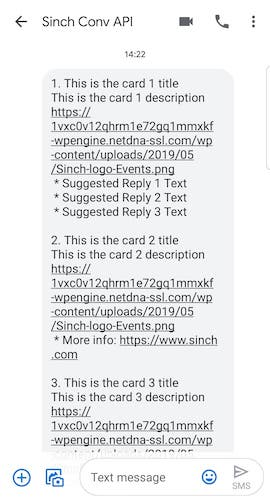
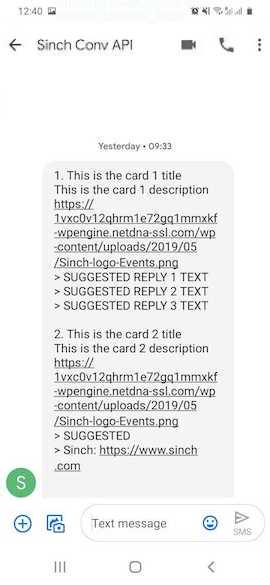
update screenshots and adjust examples

diff --git a/docs/conversation/conversation-channel-support/conversation-sms.md b/docs/conversation/conversation-channel-support/conversation-sms.md
@@ -149,29 +149,19 @@ Conversation API POST `messages:send`
       "choices": [
         {
           "text_message": {
-            "text": "Suggested Reply Text"
+            "text": "Text"
           }
         },
         {
           "url_message": {
-            "title": "More info",
+            "title": "Sinch",
             "url": "https://www.sinch.com"
           }
         },
         {
           "call_message": {
-            "title": "Call Choice Message",
-            "phone_number": "+46732000000"
-          }
-        },
-        {
-          "location_message": {
-            "title": "Location Choice Message",
-            "label": "Enriching Engagement",
-            "coordinates": {
-              "latitude": 55.610479,
-              "longitude": 13.002873
-            }
+            "title": "Someone",
+            "phone_number": "46732000000"
           }
         }
       ]
@@ -199,34 +189,24 @@ Conversation API POST `messages:send`
       "title": "This is the card title",
       "description": "This is the card description",
       "media_message": {
-        "url": "https://1vxc0v12qhrm1e72gq1mmxkf-wpengine.netdna-ssl.com/wp-content/uploads/2019/05/Sinch-logo-Events.png"
+        "url": "https://iconsplace.com/wp-content/uploads/_icons/ffa500/256/png/mms-icon-11-256.png"
       },
       "choices": [
         {
           "text_message": {
-            "text": "Suggested Reply Text"
-          }
-        },
-        {
-          "url_message": {
-            "title": "More info",
-            "url": "https://www.sinch.com"
+            "text": "Suggested Reply"
           }
         },
         {
           "call_message": {
-            "title": "Call Choice Message",
-            "phone_number": "+46732000000"
+            "title": "Someone",
+            "phone_number": "46732000000"
           }
         },
         {
-          "location_message": {
-            "title": "Location Choice Message",
-            "label": "Enriching Engagement",
-            "coordinates": {
-              "latitude": 55.610479,
-              "longitude": 13.002873
-            }
+          "url_message": {
+            "title": "Sinch",
+            "url": "https://www.sinch.com"
           }
         }
       ]
@@ -256,16 +236,20 @@ Conversation API POST `messages:send`
           "title": "This is the card 1 title",
           "description": "This is the card 1 description",
           "media_message": {
-            "url": "https://techcrunch.com/wp-content/uploads/2017/08/butterfly-bubble.jpg?w=1390&crop=1"
+            "url": "https://1vxc0v12qhrm1e72gq1mmxkf-wpengine.netdna-ssl.com/wp-content/uploads/2019/05/Sinch-logo-Events.png"
           },
           "choices": [
             {
               "text_message": {
                 "text": "Suggested Reply 1 Text"
-              },
+              }
+            },
+            {
               "text_message": {
                 "text": "Suggested Reply 2 Text"
-              },
+              }
+            },
+            {
               "text_message": {
                 "text": "Suggested Reply 3 Text"
               }
@@ -276,12 +260,17 @@ Conversation API POST `messages:send`
           "title": "This is the card 2 title",
           "description": "This is the card 2 description",
           "media_message": {
-            "url": "https://www.idus.se/en/wp-content/uploads/files/sites/2/2015/04/Message-150x150.png"
+            "url": "https://1vxc0v12qhrm1e72gq1mmxkf-wpengine.netdna-ssl.com/wp-content/uploads/2019/05/Sinch-logo-Events.png"
           },
           "choices": [
             {
+              "text_message": {
+                "text": "Suggested"
+              }
+            },
+            {
               "url_message": {
-                "title": "URL Choice Message:",
+                "title": "Sinch",
                 "url": "https://www.sinch.com"
               }
             }
@@ -296,7 +285,7 @@ Conversation API POST `messages:send`
           "choices": [
             {
               "call_message": {
-                "title": "Call Choice Message:",
+                "title": "Someone",
                 "phone_number": "46732000000"
               }
             }

diff --git a/docs/conversation/conversation-channel-support/conversation-viber-business.md b/docs/conversation/conversation-channel-support/conversation-viber-business.md
@@ -236,19 +236,13 @@ There is no native support for suggested replies or multiple choices in VIBERBM.
       "choices": [
         {
           "text_message": {
-            "text": "Suggested Reply Text"
+            "text": "Suggested"
           }
         },
         {
           "url_message": {
-            "title": "More info",
+            "title": "URL Choice Message:",
             "url": "https://www.sinch.com"
-          }
-        },
-        {
-          "call_message": {
-            "title": "Call Choice Message",
-            "phone_number": "+46732000000"
           }
         },
         {
@@ -332,12 +326,22 @@ Conversation API POST `messages:send`
           "title": "This is the card 1 title",
           "description": "This is the card 1 description",
           "media_message": {
-            "url": "https://techcrunch.com/wp-content/uploads/2017/08/butterfly-bubble.jpg?w=1390&crop=1"
+            "url": "https://1vxc0v12qhrm1e72gq1mmxkf-wpengine.netdna-ssl.com/wp-content/uploads/2019/05/Sinch-logo-Events.png"
           },
           "choices": [
             {
               "text_message": {
-                "text": "Suggested Reply Text"
+                "text": "Suggested Reply 1 Text"
+              }
+            },
+            {
+              "text_message": {
+                "text": "Suggested Reply 2 Text"
+              }
+            },
+            {
+              "text_message": {
+                "text": "Suggested Reply 3 Text"
               }
             }
           ]
@@ -346,28 +350,18 @@ Conversation API POST `messages:send`
           "title": "This is the card 2 title",
           "description": "This is the card 2 description",
           "media_message": {
-            "url": "https://www.idus.se/en/wp-content/uploads/files/sites/2/2015/04/Message-150x150.png"
-          },
-          "choices": [
-            {
-              "url_message": {
-                "title": "URL Choice Message:",
-                "url": "https://www.sinch.com"
-              }
-            }
-          ]
-        },
-        {
-          "title": "This is the card 3 title",
-          "description": "This is the card 3 description",
-          "media_message": {
             "url": "https://1vxc0v12qhrm1e72gq1mmxkf-wpengine.netdna-ssl.com/wp-content/uploads/2019/05/Sinch-logo-Events.png"
           },
           "choices": [
             {
-              "call_message": {
-                "title": "Call Choice Message:",
-                "phone_number": "46732000000"
+              "text_message": {
+                "text": "Suggested"
+              }
+            },
+            {
+              "url_message": {
+                "title": "Sinch",
+                "url": "https://www.sinch.com"
               }
             }
           ]
@@ -380,7 +374,7 @@ Conversation API POST `messages:send`
 
 The rendered message:
 
-![Carousel Message](images/channel-support/viberbm/Viber_carousel_message.jpg)
+![Carousel Message](images/channel-support/viberbm/Viber_Carousel_Message.jpg)
 
 ###### Location Messages
 

diff --git a/docs/conversation/conversation-channel-support/conversation-viber-bot.md b/docs/conversation/conversation-channel-support/conversation-viber-bot.md
@@ -157,29 +157,19 @@ Conversation API POST `messages:send`
       "choices": [
         {
           "text_message": {
-            "text": "Suggested Reply Text"
+            "text": "Suggested Reply"
           }
         },
         {
           "url_message": {
-            "title": "URL Choice Message:",
+            "title": "Sinch",
             "url": "https://www.sinch.com"
           }
         },
         {
           "call_message": {
-            "title": "Call Choice Message:Q",
+            "title": "Someone",
             "phone_number": "46732000000"
-          }
-        },
-        {
-          "location_message": {
-            "title": "Location Choice Message",
-            "label": "Enriching Engagement",
-            "coordinates": {
-              "latitude": 55.610479,
-              "longitude": 13.002873
-            }
           }
         }
       ]
@@ -210,23 +200,19 @@ Conversation API POST `messages:send`
       "choices": [
         {
           "text_message": {
-            "text": "Suggested Reply Text"
+            "text": "Suggested Reply"
           }
         },
         {
           "url_message": {
-            "title": "Visit Sinch at",
+            "title": "Sinch website",
             "url": "https://www.sinch.com"
           }
         },
         {
-          "location_message": {
-            "title": "Location Choice Message",
-            "label": "Enriching Engagement",
-            "coordinates": {
-              "latitude": 55.610479,
-              "longitude": 13.002873
-            }
+          "call_message": {
+            "title": "John Doe",
+            "phone_number": "46732000000"
           }
         }
       ]
@@ -282,8 +268,13 @@ Conversation API POST `messages:send`
           },
           "choices": [
             {
+              "text_message": {
+                "text": "Suggested Reply Text"
+              }
+            },
+            {
               "url_message": {
-                "title": "URL Choice Message:",
+                "title": "Sinch",
                 "url": "https://www.sinch.com"
               }
             }
@@ -298,7 +289,7 @@ Conversation API POST `messages:send`
           "choices": [
             {
               "call_message": {
-                "title": "Call Choice Message:Q",
+                "title": "Someone",
                 "phone_number": "46732000000"
               }
             }

diff --git a/docs/conversation/conversation-channel-support/conversation-whatsapp.md b/docs/conversation/conversation-channel-support/conversation-whatsapp.md
@@ -404,18 +404,18 @@ Conversation API POST `messages:send`
       "choices": [
         {
           "text_message": {
-            "text": "Suggested Reply Text"
+            "text": "Text"
           }
         },
         {
           "url_message": {
-            "title": "URL Choice Message:",
+            "title": "Sinch",
             "url": "https://www.sinch.com"
           }
         },
         {
           "call_message": {
-            "title": "Call Choice Message:Q",
+            "title": "Someone",
             "phone_number": "46732000000"
           }
         }
@@ -449,7 +449,19 @@ Conversation API POST `messages:send`
       "choices": [
         {
           "text_message": {
-            "text": "Suggested Reply Text"
+            "text": "Text"
+          }
+        },
+        {
+          "call_message": {
+            "title": "Someone",
+            "phone_number": "46732000000"
+          }
+        },
+        {
+          "url_message": {
+            "title": "Sinch",
+            "url": "https://www.sinch.com"
           }
         }
       ]
@@ -485,17 +497,12 @@ Conversation API POST `messages:send`
           "choices": [
             {
               "text_message": {
-                "text": "Suggested Reply 1 Text"
+                "text": "Response 1"
               }
             },
             {
               "text_message": {
-                "text": "Suggested Reply 2 Text"
-              }
-            },
-            {
-              "text_message": {
-                "text": "Suggested Reply 3 Text"
+                "text": "Response 2"
               }
             }
           ]
@@ -508,8 +515,13 @@ Conversation API POST `messages:send`
           },
           "choices": [
             {
+              "text_message": {
+                "text": "Response 3"
+              }
+            },
+            {
               "url_message": {
-                "title": "URL Choice Message:",
+                "title": "Sinch",
                 "url": "https://www.sinch.com"
               }
             }
@@ -524,7 +536,7 @@ Conversation API POST `messages:send`
           "choices": [
             {
               "call_message": {
-                "title": "Call Choice Message:Q",
+                "title": "Someone",
                 "phone_number": "46732000000"
               }
             }
